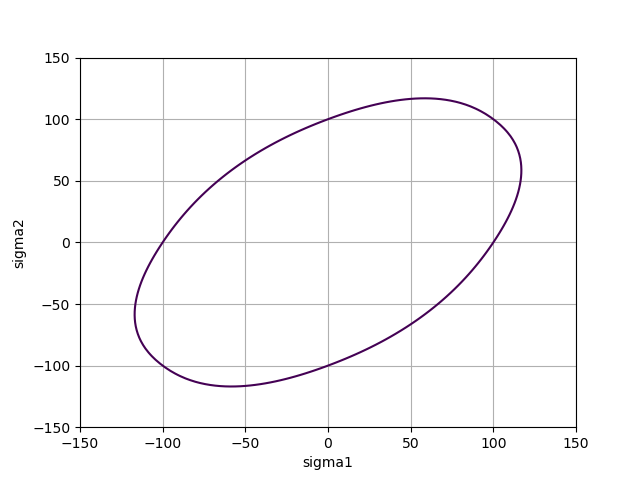
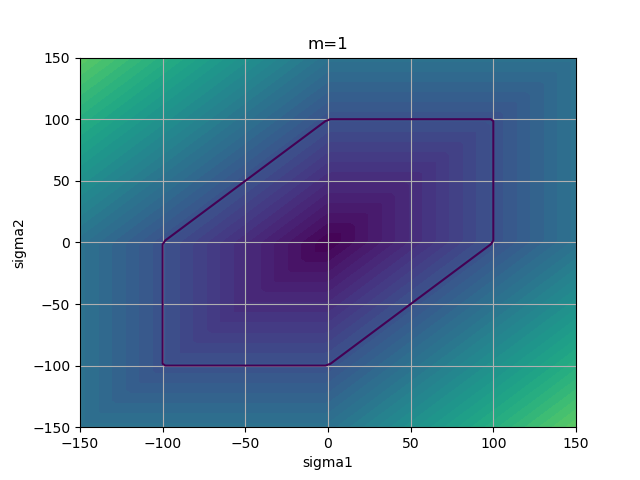
hershey converges for most values of m. convergence is very slow for m=1 and high values of m

diff --git a/project/python/test-hershey0.py b/project/python/test-hershey0.py
@@ -65,9 +65,11 @@ if __name__ == "__main__":
 
     plt.figure()
     plt.contour(S1, S2, PHI, levels=[sY])
+    plt.contourf(S1, S2, PHI, levels=np.linspace(0.1, 400, 50))
     plt.xlabel("sigma1")
     plt.ylabel("sigma2")
     plt.grid(True)
+    plt.title("m=" + str(m))
     plt.savefig("hershey.png")
 
     ##################################################

diff --git a/project/python/hershey.py b/project/python/hershey.py
@@ -10,7 +10,7 @@ import random
 ### Verification of Hershey and its gradient
 ##################################################
 
-m = 10
+m = 1
 TOL = 1e-6
 
 
